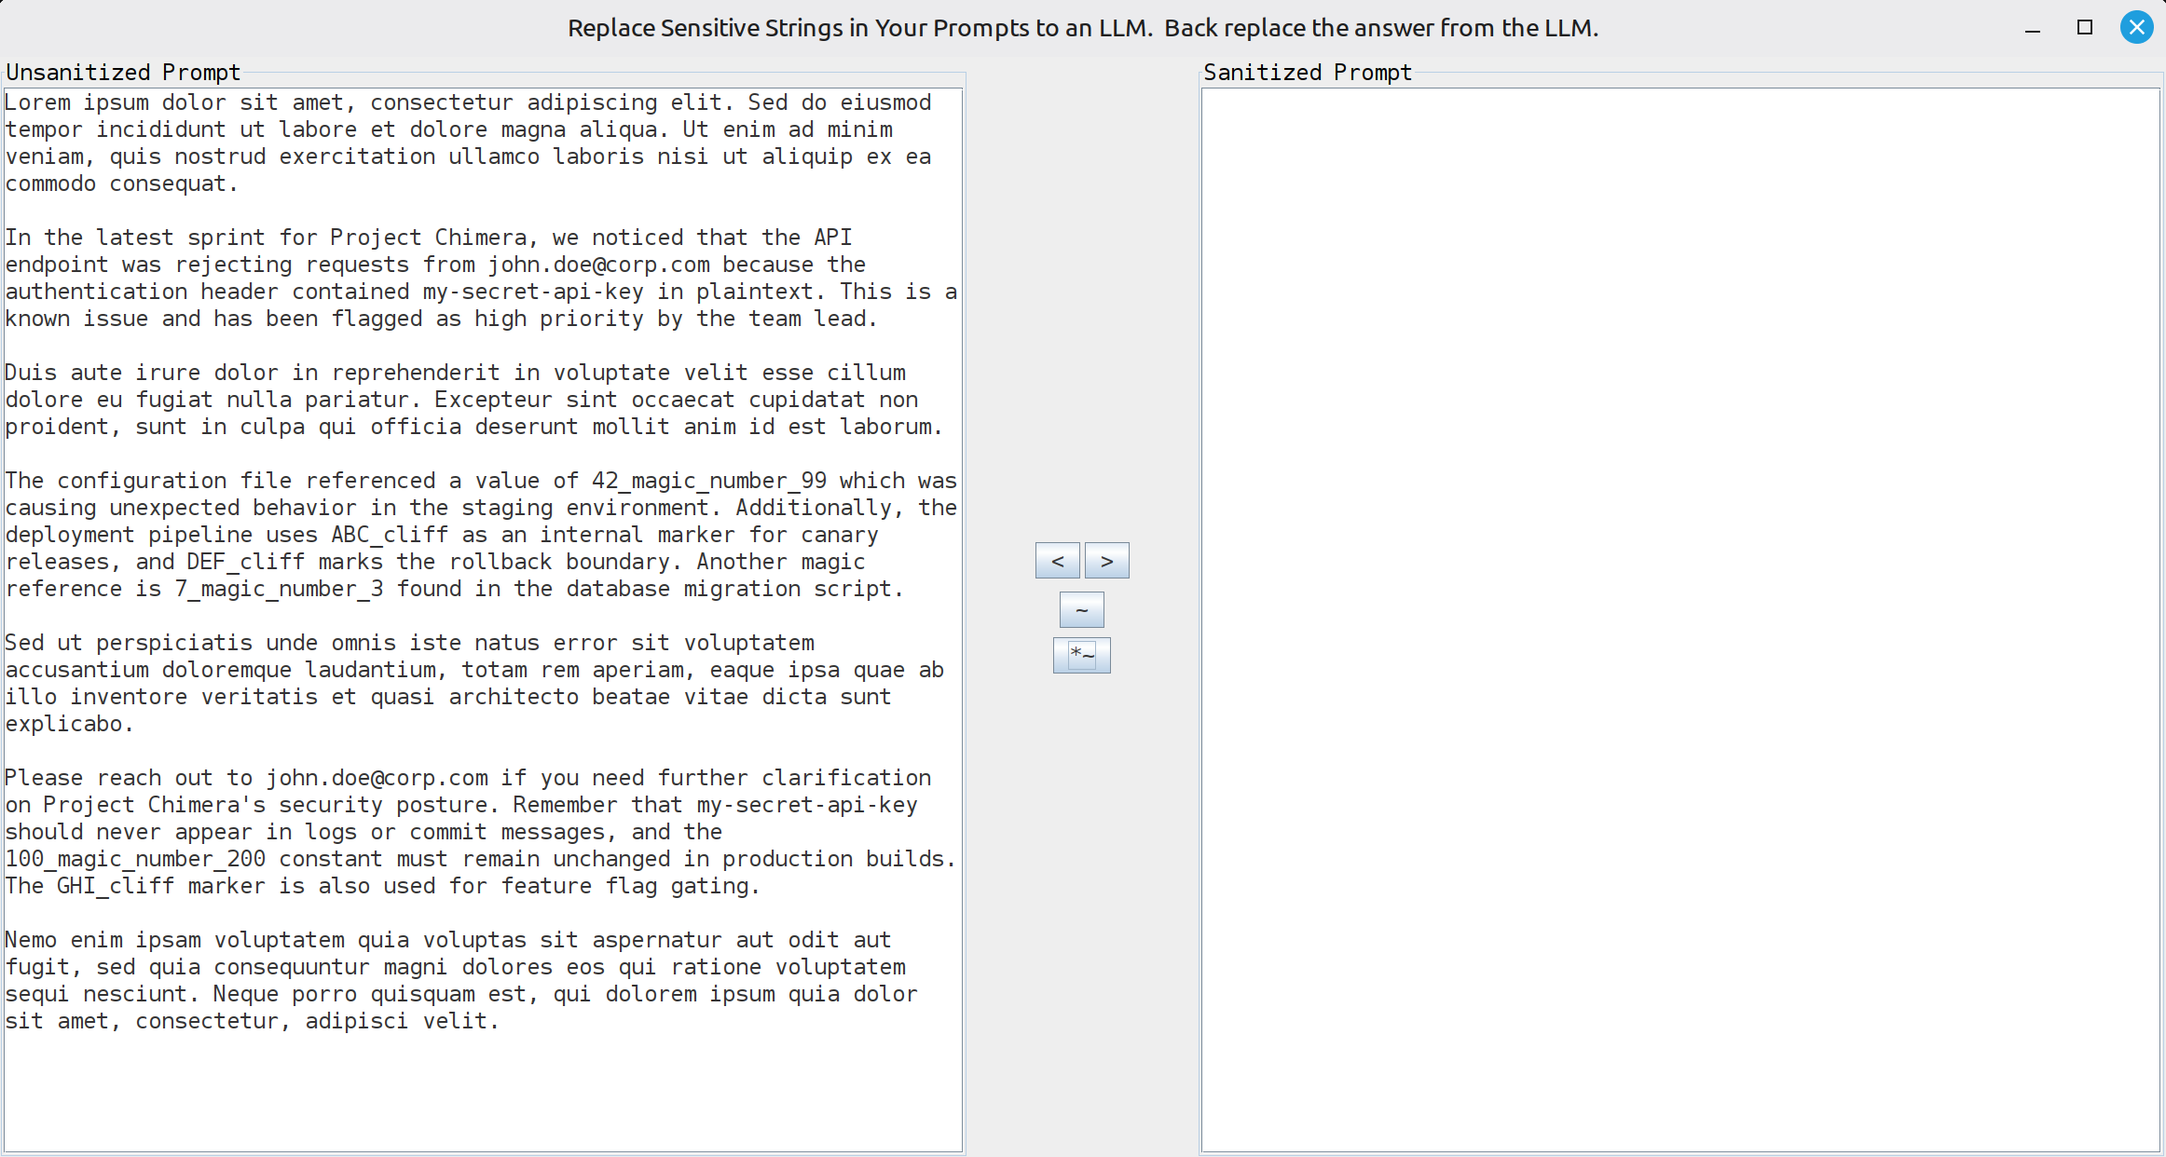
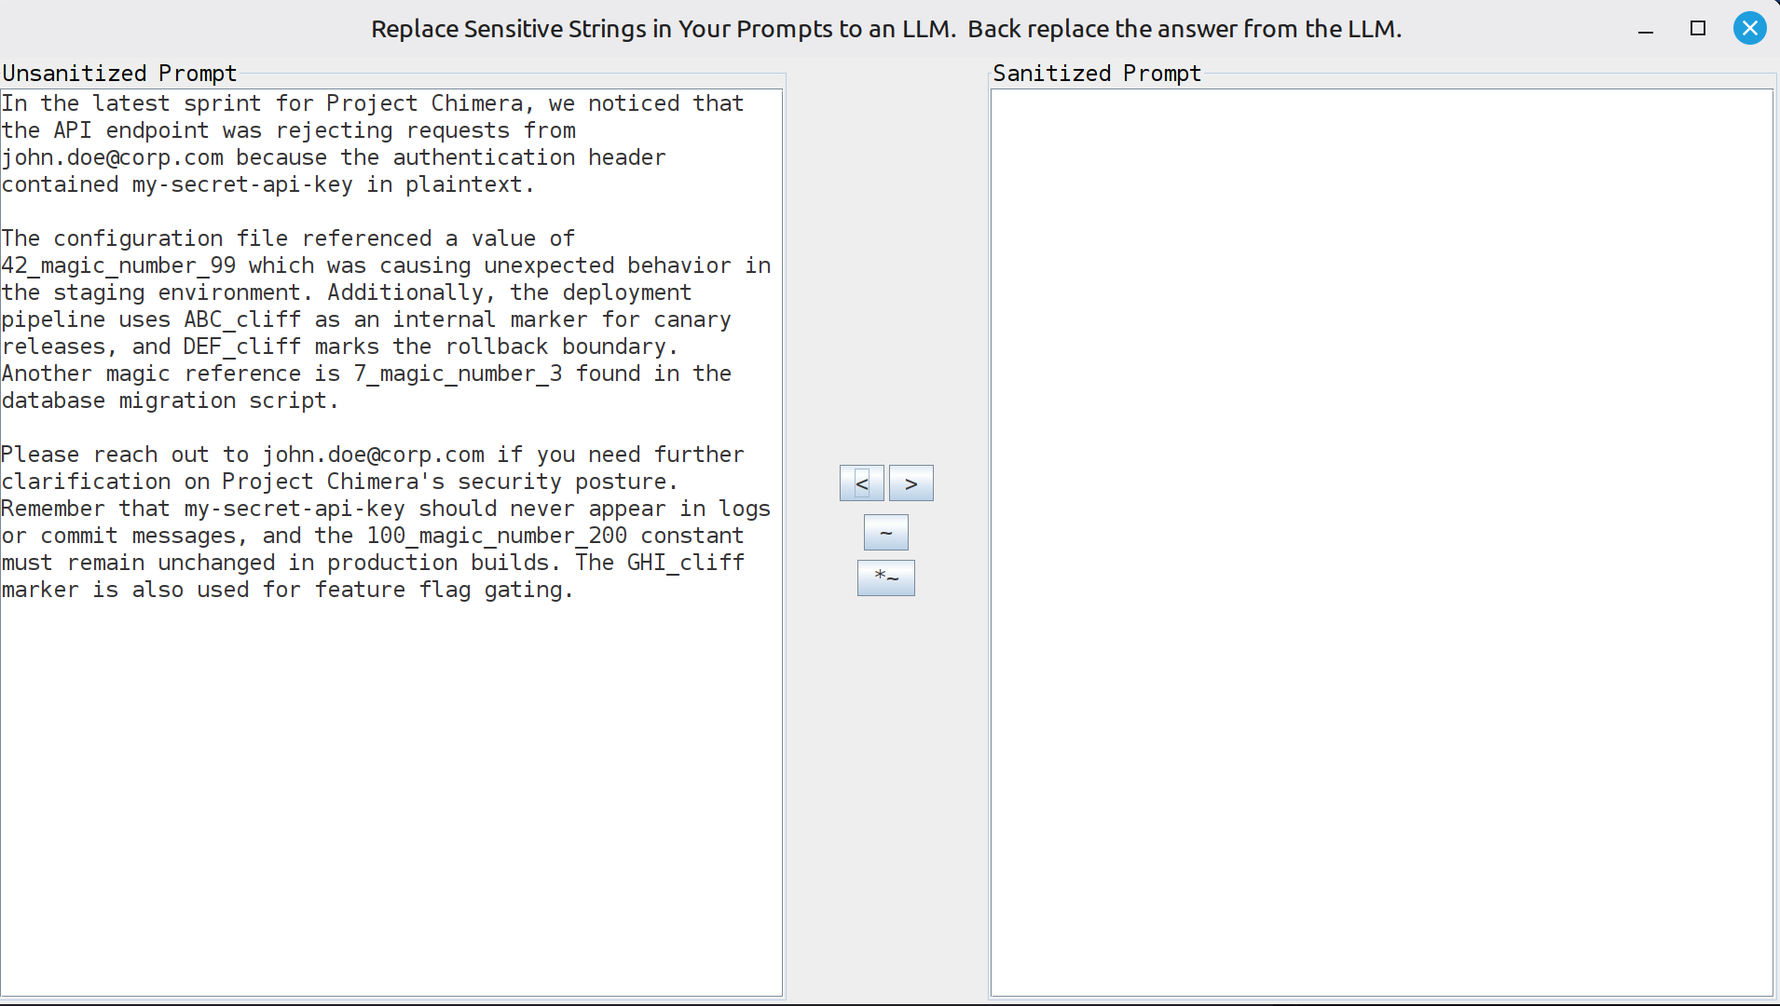
Updating the README.md

Changed region(s): [[0.0, 0.0, 1.0, 1.0], [0.0, 0.9778, 0.4634, 1.0], [0.4634, 0.4583, 0.5251, 0.6111]]

diff --git a/REGEX_EXAMPLE_WITH_SCREEN_CAPTURES.md b/REGEX_EXAMPLE_WITH_SCREEN_CAPTURES.md
@@ -1,33 +1,29 @@
-# An Example Demonstrating Regex Support
+# Regex Dictionary Support — Walkthrough
 
-Here, I'll go ahead and focus on what happens when you have a regex personal dictionary configured via the *~ button.  We'll start with some lorem ipsum type content.
+The `*~` button opens the **regex dictionary editor**, where you can define pattern-based replacements using full Java regular expressions. This is the heavy artillery for sensitive data you can't enumerate one-by-one.
+
+---
+
+## Starting Point
+
+Here's a sample prompt containing a mix of exact-match secrets and patterns that would be tedious to list individually:
 
 ![An Example Unsanitized Lorem Ipsum](docs/regex_screencaps/unsanitized_lorem_ipsum.png)
 
-Here's the actual content:
+The prompt contains:
+- **Exact-match targets:** `Project Chimera`, `john.doe@corp.com`, `my-secret-api-key`
+- **Pattern targets:** `42_magic_number_99`, `7_magic_number_3`, `100_magic_number_200` (magic numbers with variable digits)
+- **Pattern targets:** `ABC_cliff`, `DEF_cliff`, `GHI_cliff` (canary markers with variable prefixes)
 
-```
-Lorem ipsum dolor sit amet, consectetur adipiscing elit. Sed do eiusmod tempor incididunt ut labore et dolore magna aliqua. Ut enim ad minim veniam, quis nostrud exercitation ullamco laboris nisi ut aliquip ex ea commodo consequat.
+---
 
-In the latest sprint for Project Chimera, we noticed that the API endpoint was rejecting requests from john.doe@corp.com because the authentication header contained my-secret-api-key in plaintext. This is a known issue and has been flagged as high priority by the team lead.
+## The Dictionaries
 
-Duis aute irure dolor in reprehenderit in voluptate velit esse cillum dolore eu fugiat nulla pariatur. Excepteur sint occaecat cupidatat non proident, sunt in culpa qui officia deserunt mollit anim id est laborum.
-
-The configuration file referenced a value of 42_magic_number_99 which was causing unexpected behavior in the staging environment. Additionally, the deployment pipeline uses ABC_cliff as an internal marker for canary releases, and DEF_cliff marks the rollback boundary. Another magic reference is 7_magic_number_3 found in the database migration script.
-
-Sed ut perspiciatis unde omnis iste natus error sit voluptatem accusantium doloremque laudantium, totam rem aperiam, eaque ipsa quae ab illo inventore veritatis et quasi architecto beatae vitae dicta sunt explicabo.
-
-Please reach out to john.doe@corp.com if you need further clarification on Project Chimera's security posture. Remember that my-secret-api-key should never appear in logs or commit messages, and the 100_magic_number_200 constant must remain unchanged in production builds. The GHI_cliff marker is also used for feature flag gating.
-
-Nemo enim ipsam voluptatem quia voluptas sit aspernatur aut odit aut fugit, sed quia consequuntur magni dolores eos qui ratione voluptatem sequi nesciunt. Neque porro quisquam est, qui dolorem ipsum quia dolor sit amet, consectetur, adipisci velit.
-```
-
-Next, let's look at both the exact text replacements, as defined by the ~ button and the regular expressions as defined by the *~ button.
+### Exact-Match Dictionary (`~` button)
 
 ![Exact Replacements For This New Example](docs/regex_screencaps/tilde_clip.png)
 
-which is populated by the data:
-```
+```json
 {
   "john.doe@corp.com": "big.badass@corp.com",
   "Project Chimera": "Project Unicorn",
@@ -35,24 +31,31 @@ which is populated by the data:
 }
 ```
 
+### Regex Dictionary (`*~` button)
+
 ![Regex Replacements For This New Example](docs/regex_screencaps/asterisk_tilde_clip.png)
 
-which is populated by the data:
-
-```
+```json
 {
+  // Matches: 42_magic_number_99  →  captures "42" and "99"
   "([0-9]*)_magic_number_([0-9]*)": {
-    "repl": "$1_$2_void",
-    "dir": ">"
+    "repl": "$1_$2_void",        // Becomes: 42_99_void
+    "dir": ">"                     // Forward direction only
   },
+
+  // Reverse: 42_99_void → 42_magic_number_99
   "([0-9]*)_([0-9]*)_void": {
     "repl": "$1_magic_number_$2",
-    "dir": "<"
+    "dir": "<"                      // Reverse direction only
   },
+
+  // Matches: ABC_cliff → filly_ABC
   "([A-Z]+)_cliff": {
     "repl": "filly_$1",
     "dir": ">"
   },
+
+  // Reverse: filly_ABC → ABC_cliff
   "filly_([A-Z]+)": {
     "repl": "$1_cliff",
     "dir": "<"
@@ -60,28 +63,83 @@ which is populated by the data:
 }
 ```
 
-Now, the thing about the regular expression personal dictionary is that, because you are taking full advantage of Java regular expressions, the syntax allows you to use wildcards.  `[0-9]*`, for example, will match any number of digits in a row.  It also allows you to define capture groups and place them in the replaced string.  So, `([0-9]*)_magic_number_([0-9]*)`, if it matches something like "123_magic_number_456", then the replacement will become "123_456_void".  Great, so, how do you perform the replacement in reverse?  Well, this is why a third parameter is needed for a direction.  So, when defining your regular expressions, unlike the exact text dictionary replacements, you have to specify a direction in which they are applied.  > is the direction of unsanitized content to sanitized and the inverse, < is the other direction.  There isn't an automatic bidirectionality defined for these because of the number of ways the replacement can define the movement or repetition of the capture groups.  The way the algorithm works in the forward direction, it applies the regular expressions that you defined as being applicable in the forward direction first and then the exact replacements.  And it goes the opposite in the reverse direction, it applies the exact replacements first and then the regular expressions you defined as being applicable in the reverse direction.  Now, let's click the > button.
+---
 
-And here's the exact text:
+## How Direction Works
+
+> **Key concept:** Unlike exact-match replacements (which are automatically bidirectional), regex rules require you to define *both* a forward (`>`) and reverse (`<`) rule. This gives you full control over how capture groups transform in each direction.
+
+Because regex replacements can rearrange, drop, or repeat captured content, there's no way for the application to guess the inverse of your pattern. You define both directions explicitly:
+
+| Direction | Symbol | When Applied |
+|-----------|--------|-------------|
+| Forward (sanitize) | `"dir": ">"` | Applied first, before exact-match entries |
+| Reverse (restore) | `"dir": "<"` | Applied after exact-match entries (in reverse mode) |
+
+**Replacement order in forward mode:**
+1. Regex rules with `"dir": ">"`
+2. Exact-match dictionary entries
+
+**Replacement order in reverse mode:**
+1. Exact-match dictionary entries (reversed)
+2. Regex rules with `"dir": "<"`
+
+---
+
+## Forward Sanitization (Click `>`)
+
+After clicking the `>` button, here's what changed:
+
+```diff
+- Project Chimera          →  Project Unicorn
+- john.doe@corp.com        →  big.badass@corp.com
+- my-secret-api-key        →  not-really-any-api-key
+- 42_magic_number_99       →  42_99_void
+- 7_magic_number_3         →  7_3_void
+- 100_magic_number_200     →  100_200_void
+- ABC_cliff                →  filly_ABC
+- DEF_cliff                →  filly_DEF
+- GHI_cliff                →  filly_GHI
+```
+
+The full unsanitized text:
 
 ```
-Lorem ipsum dolor sit amet, consectetur adipiscing elit. Sed do eiusmod tempor incididunt ut labore et dolore magna aliqua. Ut enim ad minim veniam, quis nostrud exercitation ullamco laboris nisi ut aliquip ex ea commodo consequat.
+In the latest sprint for Project Chimera, we noticed that the API endpoint was rejecting requests from john.doe@corp.com because the authentication header contained my-secret-api-key in plaintext.
 
-In the latest sprint for Project Unicorn, we noticed that the API endpoint was rejecting requests from big.badass@corp.com because the authentication header contained not-really-any-api-key in plaintext. This is a known issue and has been flagged as high priority by the team lead.
+The configuration file referenced a value of 42_magic_number_99 which was causing unexpected behavior in the staging environment. Additionally, the deployment pipeline uses ABC_cliff as an internal marker for canary releases, and DEF_cliff marks the rollback boundary. Another magic reference is 7_magic_number_3 found in the database migration script.
 
-Duis aute irure dolor in reprehenderit in voluptate velit esse cillum dolore eu fugiat nulla pariatur. Excepteur sint occaecat cupidatat non proident, sunt in culpa qui officia deserunt mollit anim id est laborum.
+Please reach out to john.doe@corp.com if you need further clarification on Project Chimera's security posture. Remember that my-secret-api-key should never appear in logs or commit messages, and the 100_magic_number_200 constant must remain unchanged in production builds. The GHI_cliff marker is also used for feature flag gating.
+```
+
+The full sanitized text:
+
+```
+In the latest sprint for Project Unicorn, we noticed that the API endpoint was rejecting requests from big.badass@corp.com because the authentication header contained not-really-any-api-key in plaintext.
 
 The configuration file referenced a value of 42_99_void which was causing unexpected behavior in the staging environment. Additionally, the deployment pipeline uses filly_ABC as an internal marker for canary releases, and filly_DEF marks the rollback boundary. Another magic reference is 7_3_void found in the database migration script.
 
-Sed ut perspiciatis unde omnis iste natus error sit voluptatem accusantium doloremque laudantium, totam rem aperiam, eaque ipsa quae ab illo inventore veritatis et quasi architecto beatae vitae dicta sunt explicabo.
-
 Please reach out to big.badass@corp.com if you need further clarification on Project Unicorn's security posture. Remember that not-really-any-api-key should never appear in logs or commit messages, and the 100_200_void constant must remain unchanged in production builds. The filly_GHI marker is also used for feature flag gating.
-
-Nemo enim ipsam voluptatem quia voluptas sit aspernatur aut odit aut fugit, sed quia consequuntur magni dolores eos qui ratione voluptatem sequi nesciunt. Neque porro quisquam est, qui dolorem ipsum quia dolor sit amet, consectetur, adipisci velit.
 ```
 
-As an example of what it became, "42_magic_number_99" became "42_99_void".  "7_magic_number_3" became "7_3_void".  However, the exact text replacements happened also.  "Project Chimera" became "Project Unicorn", for example.  If this were a real prompt you were sending to a cloud AI, you would probably have your dictionaries defined differently and would be using the full weight of java regular expressions to mask confidential info if you needed to.  Let's finish up by clicking the < button.
+---
+
+## Reverse Restoration (Click `<`)
 
 ![Restored Unsanitized Lorem Ipsum](docs/regex_screencaps/restored_lorem_ipsum.png)
 
-I *could* paste it here, but it turns out to be identical to the unsanitized lorem ipsum at the beginning of this example.  That happens to be because I defined all of my regular expressions in pairs.  The `([0-9]*)_magic_number_([0-9]*) -> $1_$2_void` in the > direction just happens to be reverted by `([0-9]*)_([0-9]*)_void -> $1_magic_number_$2` in the < direction.  Your mileage may actually vary depending on how you define your regular expressions.  But, the main point, is that it is up to YOU to define the reverse rule to be what YOU consider to be a good enough approximation of inverting the forward rule.  As a practical rule of thumb, you'll probably have a lot fewer regular expression rules defined than just exact text replacements.  In fact, you don't have to have any defined and the application will work exactly as it did before this newer version incorporating regular expressions.
+The restored text is identical to the original — because every regex rule was defined as a paired forward/reverse transformation. The `([0-9]*)_magic_number_([0-9]*) → $1_$2_void` forward rule is perfectly inverted by `([0-9]*)_([0-9]*)_void → $1_magic_number_$2` in the reverse direction.
+
+**Note:** Perfect round-tripping isn't guaranteed with all regex patterns. If your forward rule drops information (e.g., matching `\d+` and replacing with `[NUMBER]`), the reverse rule can't recover what was lost. You define the rules; you control the trade-off.
+
+---
+
+## When to Use Regex vs. Exact-Match
+
+| Use exact-match when... | Use regex when... |
+|------------------------|-------------------|
+| The sensitive value is a known string | You need to match patterns (emails, phone numbers, IDs) |
+| You want automatic bidirectional replacement | You need capture groups to transform the output |
+| Simplicity is the priority | You're dealing with auto-generated or variable content |
+
+In practice, most users will have far more exact-match entries than regex rules. Regex is a powerful supplement — not a replacement for the core dictionary. And if you define zero regex rules, the application works exactly as it did before this feature existed.

diff --git a/README.md b/README.md
@@ -33,8 +33,8 @@ Entries are saved as a simple JSON file in your home directory.
 1. Paste your raw prompt into the **Unsanitized Prompt** panel (left).
 2. Hit **\>** - every word from your dictionary gets replaced with its safe counterpart.
 3. The result appears in the **Sanitized Prompt** panel (right), ready to copy and send.
-4. Copy-paste it from the **Sanitized Prompt** panel (right), into the prompt input in whatever LLM you are using.
-5. This is actually your classic click-ops type of solution.  You copy-paste everything!  So you are making 100% sure it is exactly what you want.
+4. Copy the sanitized prompt from the right panel into the cloud LLM you are connected to.
+5. This manual, click-driven approach means you always see exactly what leaves your machine — no automation surprises.
 
 ### 3. Bring it home
 
@@ -42,13 +42,15 @@ Entries are saved as a simple JSON file in your home directory.
 2. Hit **<** - every placeholder gets swapped back to the original sensitive value.
 3. The restored answer, based on making all of the text replacements in reverse, appears on the left.
 
-### 4. How it works
-1. If you've ever copy-pasted a prompt into notepad and replaced words before sending it off to an LLM, you get the basic idea.  Prompt sanitization is just text replacement, at the end of the day.
-2. But this application adds the convenience that you have a locally configured dictionary, kept between uses of the application, where the text replacements get applied one after the other.
+### 4. Under the hood
+
+PromptSanitizer is sequential text replacement — the same thing you'd do in Notepad's Find & Replace, but automated from a persistent dictionary. Each entry is applied one after another, in order. No network calls, no telemetry, nothing leaves your machine except what you explicitly copy.
 
 ---
 
 ## Example dictionary
+
+Here's an example with exact text replacements:
 
 ```json
 {
@@ -60,9 +62,17 @@ Entries are saved as a simple JSON file in your home directory.
 }
 ```
 
+And here's one with regular expression replacements:
+```json
+{
+  "([a-z]*)\\Q@gmail.com\\E": {"repl": "$1@proton.me", "dir": "<"},
+  "([a-z]*)\\Q@proton.me\\E": {"repl": "$1@gmail.com", "dir": ">"}
+}
+```
+
 Paste a prompt containing `AKIAxxxxxxxxxxxxxx` → get `[AWS_ACCESS_KEY]` → send to Claude → receive answer → hit **<** → restore the original key in your local copy.
 
-## Don't define your dictionary with cycles
+## Avoid Cyclic Dictionaries
 
 ```json
 {
@@ -71,7 +81,7 @@ Paste a prompt containing `AKIAxxxxxxxxxxxxxx` → get `[AWS_ACCESS_KEY]` → se
 }
 ```
 
-"I saw an abcde go to the fghij." becomes either "I saw an fghij go to the fghij." or "I saw an abcde go to the abcde.".  It doesn't become "I saw an fghij go to the abcde."  So don't do that.  The general rule is, this will do the same as if you had just clicked the "replace all", one-by-one, for each replacement you want to make, in something like notepad.
+Replacements are applied sequentially — not simultaneously. So `"I saw an abcde go to the fghij."` becomes `"I saw an fghij go to the fghij."` (or the reverse, depending on order). It won't do both in one pass. The rule of thumb: think of it as clicking "Replace All" one entry at a time, like in Notepad.
 
 ---
 
@@ -136,13 +146,62 @@ java -cp build/classes/java/main:lib/json-20250107.jar promptsanitizer.MainApp
 
 ## Batch Job Interface
 
-This is for a local AI running inside a docker container (for example, openmonoagent.ai), which will probably only have access to a headless java.
+For headless or automated use — such as a local AI agent running inside a Docker container — the batch mode sanitizes files via command line with no GUI required.
 
-It only takes a single command line argument for the direction.  And the values are expected to be either "forward", "reverse" or "upsertonly".  If the direction is forward, it will write to a file called "sanitized_content.txt" with the contents of the "unsanitized_content.txt" replaced with their corresponding safe values from both your regex personal dictionary followed by your exact personal dictionary.  If the direction is specified as reverse, everything is done in reverse.  It will write to the file "unsanitized_content.txt" with the contents of the "sanitized_content.txt" after making the regex dictionary replacements followed by the exact ones.
+### How to Run
 
-Finally, before it does any of this, it checks for a file called upserts.json in the directory that the application is running from.  In it, if it finds json strings either of the form `{"key": "value"}` or of the form `{"some_(.*)_regex": {"repl": "captured_$1", "dir": ">"}}` or of the form `{"some_(.*)_regex": {"repl": "captured_$1", "dir": "<"}}` then it will update the correct personal dictionary so that the value is either overwritten or inserted.  And, if the upserts.json contains `{"key": null}` then that is taken as an instruction to delete "key" out of both of your personal dictionaries altogether.
+```bash
+# Forward:  unsanitized_content.txt → sanitized_content.txt
+promptsanitizer forward
 
-This part of it is also a click-ops solution.  The assumption is that the hard drive, in your docker container, is mounted in such a way that the human outside of it can open the text file in the corresponding real location on their real hard drive and copy-paste text from the sanitized output into whatever LLM they are using in the cloud.  And that they can copy-paste the answer from that back into the same text file.  The advantage, in this case, is that you're leveraging your local AI to maybe think of things that are sensitive info that you didn't.
+# Reverse:  sanitized_content.txt → unsanitized_content.txt
+promptsanitizer reverse
+
+# Upsert dictionaries only (no sanitization)
+promptsanitizer upsertonly
+```
+
+### Replacement Order
+
+| Direction | Step 1 | Step 2 |
+|-----------|--------|--------|
+| **Forward** (`forward`) | Regex rules with `"dir": ">"` | Exact-match entries |
+| **Reverse** (`reverse`) | Exact-match entries (reversed) | Regex rules with `"dir": "<"` |
+
+Both your exact-match dictionary (`personal_dictionary.json`) and regex dictionary (`regex_personal_dictionary.json`) are applied automatically. The file `unsanitized_content.txt` is read for forward mode; `sanitized_content.txt` is read for reverse mode. Output goes to the opposite file.
+
+### Dictionary Upserts
+
+Before any sanitization, the batch job checks for `upserts.json` in the working directory. Use it to programmatically add, modify, or remove dictionary entries:
+
+| JSON Format | Effect |
+|-------------|--------|
+| `"key": "value"` | Insert or overwrite an exact-match entry |
+| `"regex_pattern": {"repl": "...", "dir": ">"}` | Add a forward regex rule |
+| `"regex_pattern": {"repl": "...", "dir": "<"}` | Add a reverse regex rule |
+| `"key": null` | Delete the entry from both dictionaries |
+
+**Example `upserts.json`:**
+
+```json
+{
+  "my-secret-api-key": "[API_KEY]",
+  "(\\d{3}-\\d{2}-\\d{4})": {"repl": "[SSN]", "dir": ">"},
+  "old-entry-to-remove": null
+}
+```
+
+### Workflow
+
+The batch mode is designed under the assumption of a click-ops workflow: your Docker container's filesystem is mounted so you can inspect files from the host. The typical flow:
+
+1. Place your raw prompt in `unsanitized_content.txt`.
+2. Run (or have your local LLM run) `promptsanitizer forward` — sanitized output appears in `sanitized_content.txt`.
+3. Copy the sanitized text into your cloud LLM.
+4. Paste the LLM's response back into `sanitized_content.txt`.
+5. Run `promptsanitizer reverse` — restored original values appear in `unsanitized_content.txt`.
+
+The advantage: you're leveraging a local AI to surface sensitive information you might have missed, while nothing ever leaves your machine unredacted.
 
 ## License
 
